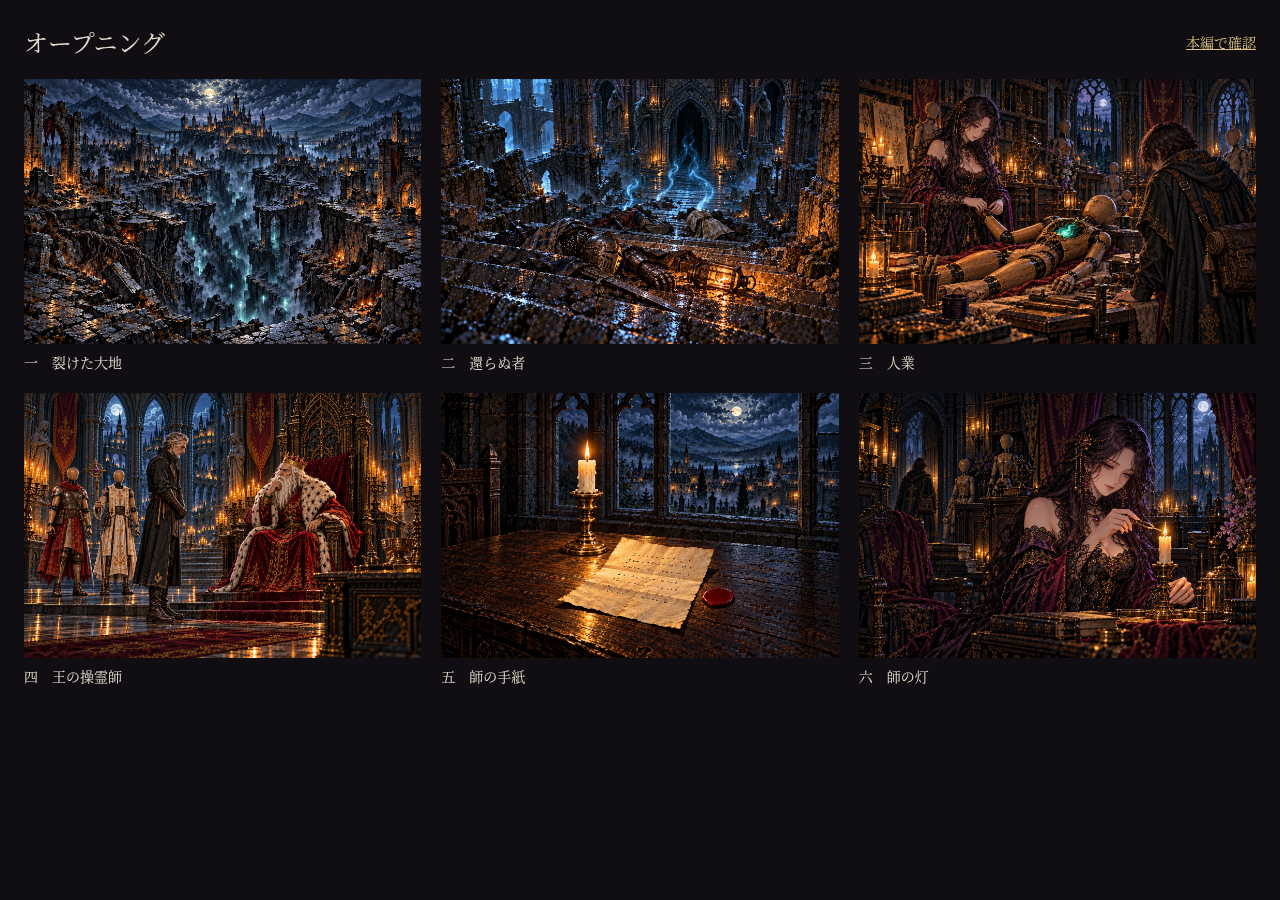
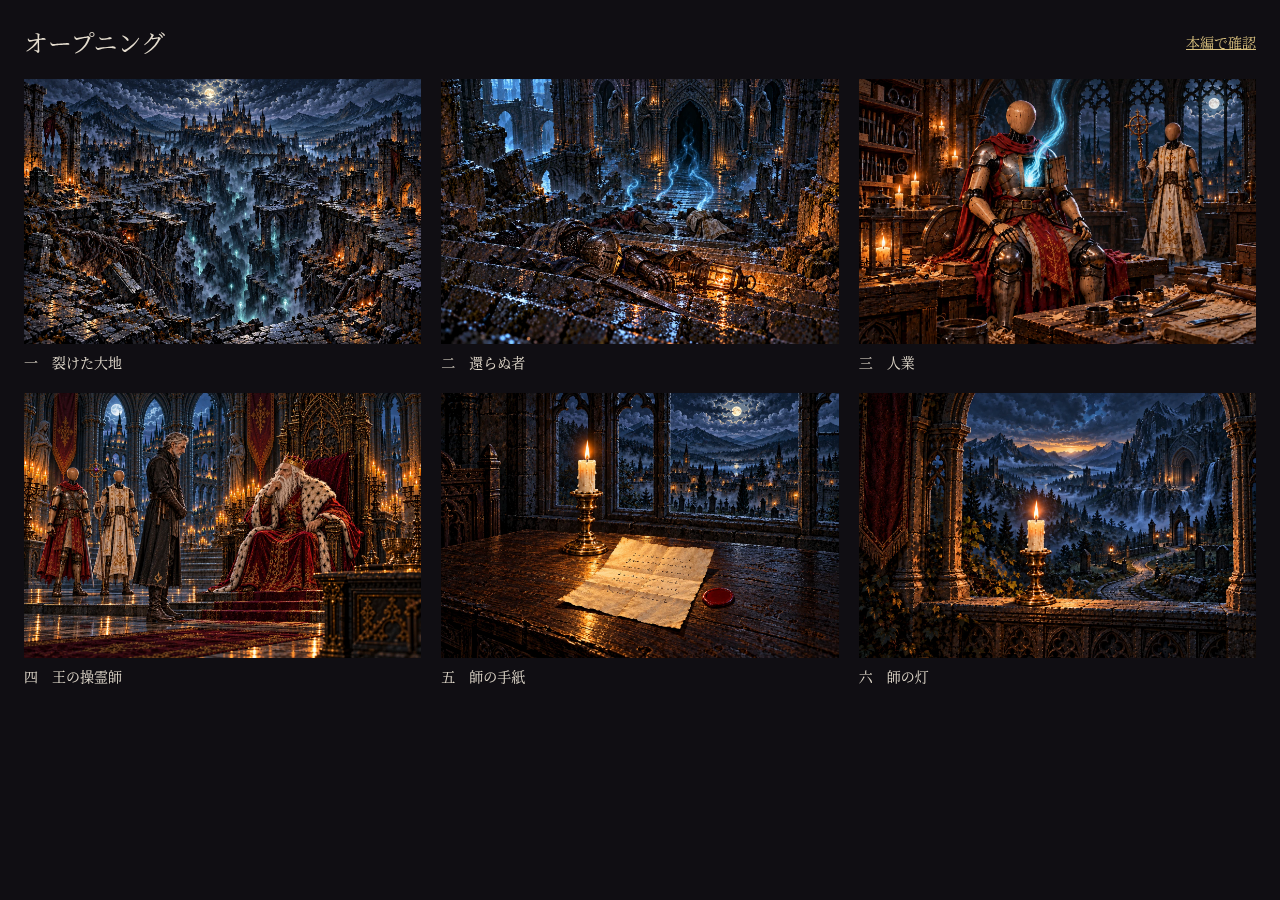
オープニングの人業と師の灯を専用に描き下ろし

Changed region(s): [[0.6562, 0.0622, 1.0, 0.4044], [0.6562, 0.4356, 1.0, 0.7467]]

diff --git a/art/story-review/opening/index.html b/art/story-review/opening/index.html
@@ -24,10 +24,10 @@
     <section>
       <figure><img src="../../../art/opening/rift.webp" alt="裂けた大地" width="1536" height="1024"><figcaption>一　裂けた大地</figcaption></figure>
       <figure><img src="../../../art/opening/fallen.webp" alt="還らぬ者" width="1536" height="1024"><figcaption>二　還らぬ者</figcaption></figure>
-      <figure><img src="../../../art/story/first-vessel-awakening.webp" alt="人業" width="1536" height="1024"><figcaption>三　人業</figcaption></figure>
+      <figure><img src="../../../art/opening/vessels.webp" alt="人業の胸に魂が宿る" width="1536" height="1024"><figcaption>三　人業</figcaption></figure>
       <figure><img src="../../../art/opening/ordo.webp" alt="王の操霊師" width="1536" height="1024"><figcaption>四　王の操霊師</figcaption></figure>
       <figure><img src="../../../art/opening/letter.webp" alt="師の手紙" width="1536" height="1024"><figcaption>五　師の手紙</figcaption></figure>
-      <figure><img src="../../../art/story/irene-soul-lamp.webp" alt="師の灯" width="1536" height="1024"><figcaption>六　師の灯</figcaption></figure>
+      <figure><img src="../../../art/opening/flame.webp" alt="師の灯と夜明けの世界へ続く道" width="1536" height="1024"><figcaption>六　師の灯</figcaption></figure>
     </section>
   </main>
 </body>

diff --git a/src/openingillustrations.js b/src/openingillustrations.js
@@ -7,10 +7,10 @@ export { setReduced };
 export const OPENING_IMAGES = [
   { src: "art/opening/rift.webp", focus: [0.5, 0.5] },
   { src: "art/opening/fallen.webp", focus: [0.5, 0.55] },
-  { src: "art/story/first-vessel-awakening.webp", focus: [0.53, 0.56] },
+  { src: "art/opening/vessels.webp", focus: [0.44, 0.5] },
   { src: "art/opening/ordo.webp", focus: [0.53, 0.5] },
   { src: "art/opening/letter.webp", focus: [0.5, 0.56] },
-  { src: "art/story/irene-soul-lamp.webp", focus: [0.7, 0.56] },
+  { src: "art/opening/flame.webp", focus: [0.54, 0.53] },
 ];
 
 const images = OPENING_IMAGES.map(({ src }) => {

diff --git a/sw.js b/sw.js
@@ -287,8 +287,10 @@ const ASSETS = [
   "./src/openingillustrations.js",
   "./art/opening/rift.webp",
   "./art/opening/fallen.webp",
+  "./art/opening/vessels.webp",
   "./art/opening/ordo.webp",
   "./art/opening/letter.webp",
+  "./art/opening/flame.webp",
   "./src/storyart.js",
   "./art/op_dolls.png",
   "./art/mansion_irene.jpg",

diff --git a/CLAUDE.md b/CLAUDE.md
@@ -4,7 +4,7 @@ This file provides guidance to Claude Code (claude.ai/code) when working with co
 
 ## What this is
 
-A single-page, build-free browser RPG (ウィザードリィ風／魂の迷宮 - Dungeon of Souls). Pure HTML + ES Modules + Canvas — **no bundler, no package.json, no npm, no test runner, no lint config.** All monster/hero/item art is drawn programmatically as pixel art on Canvas (equipment: every item has its own art — see 装備の絵). The opening uses four dedicated story-style WebP illustrations under `art/opening/` and two approved prologue WebPs (`first-vessel-awakening.webp`, `irene-soul-lamp.webp`), rendered at device resolution with smooth camera movement; the procedural artwork and `art/op_dolls.png` remain the load-failure fallback. Production masters are under `art/story-review/opening/` and are excluded from deployment. Exception (by user request): `art/mansion_irene.jpg`, the 人業の館 mistress イレーヌ, is the user's painted illustration used as-is (1172×420 JPEG, no pixel conversion; drawn smoothly, not `pixelated`) under the 隊 tab and in her greeting scene — `keeperPanel` in `src/ui/party.js`, fills only the height left over and folds away via container queries in `ui-party.css`); list each in `sw.js` ASSETS. Ships as a PWA (manifest + Service Worker, offline-capable).
+A single-page, build-free browser RPG (ウィザードリィ風／魂の迷宮 - Dungeon of Souls). Pure HTML + ES Modules + Canvas — **no bundler, no package.json, no npm, no test runner, no lint config.** All monster/hero/item art is drawn programmatically as pixel art on Canvas (equipment: every item has its own art — see 装備の絵). The opening uses six dedicated story-style WebP illustrations under `art/opening/` (no apprentice or Irene), rendered at device resolution with smooth camera movement; the procedural artwork and `art/op_dolls.png` remain the load-failure fallback. Production masters are under `art/story-review/opening/` and are excluded from deployment. Exception (by user request): `art/mansion_irene.jpg`, the 人業の館 mistress イレーヌ, is the user's painted illustration used as-is (1172×420 JPEG, no pixel conversion; drawn smoothly, not `pixelated`) under the 隊 tab and in her greeting scene — `keeperPanel` in `src/ui/party.js`, fills only the height left over and folds away via container queries in `ui-party.css`); list each in `sw.js` ASSETS. Ships as a PWA (manifest + Service Worker, offline-capable).
 
 The game has a town hub, a **map of hand-built dungeons you choose between** (`src/dungeons/world.js` — 63 so far (chapters 1-10 + 22 side dungeons), growing past 100 — from layer 4 each layer = 4 main + 2 side, see 迷宮の数の目安; each unlocks by a condition), a master-search story (`src/story.js` + illustrations `src/storyart.js`), a souls system, codices, quests, and an element/affinity system. When README and code disagree, trust the code.
 
@@ -88,7 +88,7 @@ There is no test suite. To sanity-check JS edits, use Node:
 - **`content.js`** — rank display definitions only (`RANK_NAME`/`RANK_COLOR`). The old procedural item generation (rank-prefix "二つ名" items) was removed in favor of `src/catalog/`.
 - **`audio.js`** + **`src/music/`** — all music/SFX synthesized in code (no audio files). `src/music/`: `dsp.js`/`instruments.js` (sampled-at-init instruments: choir, strings, organ, brass, harp/lute, bells, piano, taiko/timpani, ambience…, generated in `worker.js` off the main thread with a main-thread fallback; `bank.js` caches/evicts them), `engine.js` (per-instrument channels, generated cathedral convolution reverb, tempo delay, compressor/limiter, crossfades, ducking under jingles, polyphony caps, pauses when hidden, `renderOffline()` for WAV previews), `score.js` (melody/chord/percussion notation with loop points and humanization), `songs.js` (the new themes: `title`/`opening`/`town`/facility themes/`layer1`/`battle*`/`boss*`, sharing the "soul motif" leitmotif), `legacy.js` (old step-sequencer themes for layers 2-20 re-voiced through the new instruments), `sfx.js` (layered SFX + orchestral jingles). Public API unchanged: `initAudio`, `setVolumes(bgm, sfx)`, `isMuted`/`toggleMute`, `SFX.*`, `playBgm(name)`/`stopBgm()`. Device prefs `dos-prefs` in localStorage (managed by `PREFS` in game.js — separate from the save, survives reset; also holds the vibration toggle read by `buzz`).
 - **`title.js`** — title screen shown on every boot (`showTitle({hasSave, summary, onStart, onNewGame})`): cinematic animated scene (`titleart.js`: moonlit necropolis + labyrinth gate, recomposed per aspect ratio) + forged logo; **描き下ろしの原画版** (2026-10 ユーザーの指示「ドットではない超高品質に」): `src/titlekeyart.js` の台帳に原画 (`art/title/keyart-tall|wide.webp`) があれば `src/titlepaint.js` `PaintedTitle` が画面の解像度のまま滑らかに敷き (縦横比の近い方を選び、門 `gate` をロゴとメニューの間へ)、カメラの寄り引き・門の魂火の呼吸・魂の粒・ランタンのゆらぎと火の粉・地を這う霧・画面内の空を流れる二層の雲・月の光輪・墓標の魂火・不定期に横切る鴉・枝分かれする稲光と遅れて響く雷鳴（初回は約3〜4秒、以後12〜26秒間隔）を重ねて動かす (雷鳴は効果音の音量・ミュートに従い、非表示中は空模様の時計を止める。動きを減らす設定では空模様も停止) (タップで閃きと粒の噴き上げ。`.ttl-hd` でロゴ・メニューの下を沈める)。原画が無い・読めない時はドット絵のまま。原画は `docs/art/title/` (指示書 `README.md`・光の位置 `points.json`) に置き、`python3 tools/titleart/build.py` が WebP と台帳・`sw.js` の `<<TITLE_ART>>` 欄を書く (手で書かない); first tap wakes it (unlocks audio → `title` BGM), then はじめから/つづきから. `onNewGame` (passed by game.js only when a save exists) confirms, then `newGameFromTitle` clears the save, sets `sessionStorage["dos-newgame"]` and reloads; `init()` sees the flag and skips the title straight into the opening. `init()` defers `resumeFromState()` / the opening until `onStart` (`startAfterTitle`), so nothing resumes behind the title.
-- **`opening.js` / `openingart.js`** — the story intro `showOpening(done)`: 6 illustrated letterboxed scenes (slow camera, ink-bleed typewriter text, tap to advance, long-press/「スキップ」 to skip). `openingillustrations.js` loads four dedicated WebPs and two approved story WebPs, drawing them directly on a device-resolution canvas (up to 2048px wide / 2.2MP) with smoothing. Wide screens preserve the painting's height; portrait screens use scene-specific focal positions. The old atlas is retained only as `art/story-review/opening/scenes-before.png` and is not shipped. If a WebP is unavailable, the original procedural scene is drawn on a bounded low-resolution canvas and scaled into the frame. In that fallback, scene 3「人業」 uses the user's illustration `art/op_dolls.png` (250×141 dots, drawn at an integer scale with a camera pan) with animated overlays (candle, moonbeam dust, the soul entering a doll; landmarks in `DOLLS_AT`). The 人業 design reference = wooden articulated dolls with blank spherical heads and dark steel joint bands. Text uses no `filter` on inline glyphs (iOS Safari leaves them blurred).
+- **`opening.js` / `openingart.js`** — the story intro `showOpening(done)`: 6 illustrated letterboxed scenes (slow camera, ink-bleed typewriter text, tap to advance, long-press/「スキップ」 to skip). `openingillustrations.js` loads six dedicated WebPs, without the apprentice or Irene, drawing them directly on a device-resolution canvas (up to 2048px wide / 2.2MP) with smoothing. Wide screens preserve the painting's height; portrait screens use scene-specific focal positions. The old atlas is retained only as `art/story-review/opening/scenes-before.png` and is not shipped. If a WebP is unavailable, the original procedural scene is drawn on a bounded low-resolution canvas and scaled into the frame. In that fallback, scene 3「人業」 uses the user's illustration `art/op_dolls.png` (250×141 dots, drawn at an integer scale with a camera pan) with animated overlays (candle, moonbeam dust, the soul entering a doll; landmarks in `DOLLS_AT`). The 人業 design reference = wooden articulated dolls with blank spherical heads and dark steel joint bands. Text uses no `filter` on inline glyphs (iOS Safari leaves them blurred).
 - **英語のオープニング語り (試聴版)** — `openingvoice.js` に日本語字幕の各行に対応する六幕の英語原稿。端末の SpeechSynthesis の英語音声で、速度0.76・高さ0.62で読む。落ち着いた重厚な老人の語りに近づけるため、既知の男性音声 (Daniel・George・Arthurを最優先) を優先し、次に英国英語・端末内の音声を選ぶ。年齢や声質の指定はAPIに無く、声質は端末依存。幕が開くとすぐに英語ナレーションを開始し、日本語字幕も同時に一文字ずつ順次表示する。文字は従来の固定速度で、音声は英文の区切りごとに続けて読む。両者は表示完了を待ち合わず、読み上げ位置による同期・補間や切替チェックは置かない。自動の幕送り・終幕の題字は字幕と語りの終了を待ち、手動の幕送り・スキップ・消音・タブ非表示では音声を止める。非対応・音声失敗・開始待ちの時間切れ時も字幕の順次表示を継続する。酒場の心得 `t_opening_voice`。
 - **語りの初回起動** — 新規ゲームはタイトルの開始操作から同期でオープニングへ渡し、最初の音声要求を描画フレームや暗転待ちの後へ遅らせない。英語音声の登録待ち・自動再生制限では最大15秒、同じ幕・行を保持し、音声一覧の更新や最初の操作で再試行する。その操作では幕を送らない。待ち時間切れやスキップで再試行を解除する。
 - **`pxpaint.js`** — shared pixel-painting helpers (shaded volumes, cloth, rim light, dithering) used by titleart/openingart.

diff --git a/art/story-review/opening/README.md b/art/story-review/opening/README.md
@@ -1,6 +1,7 @@
 # オープニングの物語画風への差し替え
 
 六幕の本文・字幕・英語ナレーションは維持し、物語と同じ承認済みの画風と人物基準で表示する。
+全6枚がオープニング専用の描き下ろし。弟子とイレーヌはどの幕にも登場させない。
 原画は1536×1024 PNG。出荷は品質88のWebP。原画と制作記録は公開対象から除外される。
 
 [六幕の見本](index.html)
@@ -9,12 +10,12 @@
 | --- | --- | --- | --- |
 | 一 | 裂けた大地 | `art/opening/rift.webp` | 専用原画 |
 | 二 | 還らぬ者 | `art/opening/fallen.webp` | 専用原画 |
-| 三 | 人業 | `art/story/first-vessel-awakening.webp` | 承認済み物語画像を再利用 |
+| 三 | 人業 | `art/opening/vessels.webp` | 専用原画。木と黒鉄の器に魂が宿る瞬間 |
 | 四 | 王の操霊師 | `art/opening/ordo.webp` | オルド・王・隊・印の基準を参照した専用原画 |
 | 五 | 師の手紙 | `art/opening/letter.webp` | 小道具の基準を参照した専用原画 |
-| 六 | 師の灯 | `art/story/irene-soul-lamp.webp` | 承認済み物語画像を再利用。館の灯は一本の白い蝋燭 |
+| 六 | 師の灯 | `art/opening/flame.webp` | 専用原画。館の白い蝋燭と、夜明けの山々・迷宮へ続く道 |
 
-専用画像の制作指示は `node tools/openingart/prompt.mjs <rift|fallen|ordo|letter>`。
+専用画像の制作指示は `node tools/openingart/prompt.mjs <rift|fallen|vessels|ordo|letter|flame>`。
 毎回指定された基準画像を実際に画像生成へ渡す。印を基準にない場所へ追加しない。
 オルドは一年前の負傷前の姿で、弟子と取り違えない。人業の頭は目鼻のない丸い木。
 後の章で明かされるセラやモルデンの秘密は描かない。
@@ -25,7 +26,7 @@
 python3 tools/storyart/to-webp.py art/story-review/opening/rift.png art/opening/rift.webp
 ```
 
-他の3枚も同じ指定で変換する。ストーリー一覧の場面IDではないため、物語の自動登録には
+他の5枚も同じ指定で変換する。ストーリー一覧の場面IDではないため、物語の自動登録には
 加えず、`src/openingillustrations.js` と `sw.js` のオープニング画像の欄に登録する。
 変換後に `node tools/openingart/check.mjs --record` で原画とWebPのハッシュを記録し、
 `node tools/openingart/check.mjs` で寸法・形式・登録・変換記録を検査する。PRのCIでも検査する。

diff --git a/art/story-review/opening/dedicated-scenes.md b/art/story-review/opening/dedicated-scenes.md
@@ -1,0 +1,20 @@
+# 専用原画への統一
+
+既に専用制作した一・二・四・五幕を維持し、物語画像を流用していた三・六幕を新規制作。
+弟子とイレーヌは全6幕から除外。本文・人物の基準デザイン・ナレーションは変更しない。
+
+## 三幕「人業」
+
+基準の戦士と僧侶の人業を参照。顔のない丸い木の頭、黒鉄の継ぎ目、既定の衣装を保つ。
+魂が胸の空の器へ宿る瞬間を描く。「目を開ける」は比喩として扱い、目鼻は作らない。
+工房に人間の製作者は登場させない。初稿の背景にあった余分な頭部は修正で除去。
+
+## 六幕「師の灯」
+
+館の燭台にともる一本の白い蝋燭を手前に、その先へ続く道と、夜明けの山々・古い迷宮を描く。
+「灯が燃えるかぎり師の魂はまだどこかにある」という希望と、未知への冒険の期待感を重ねる。
+人物・人業・師の所在を示す光の線・後の章の秘密は描かない。
+初稿の基準にない大きな印は修正で除去し、無地の壁掛けに戻した。
+
+今回の画像生成は新規2回・修正2回、合計4回。原画は1536×1024、出荷WebPは品質88。
+変換記録は `assets.json`、目視の確認一覧は `index.html` と `review.png`。
